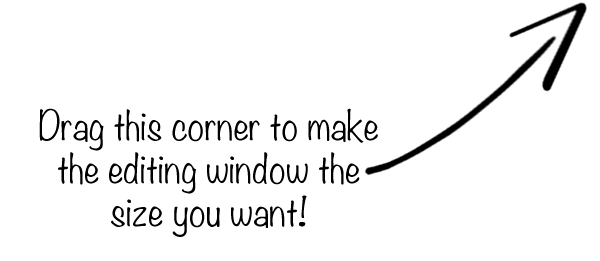
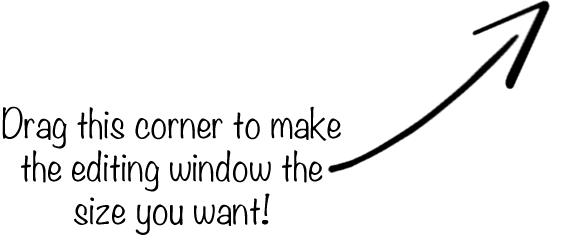
Image is now responsive

Changed region(s): [[0.0, 0.2681, 0.9361, 1.0], [0.8153, 0.0, 0.9964, 0.2979]]

diff --git a/index.php b/index.php
@@ -26,7 +26,7 @@ tinymce.init({
 <form method="post">
     <textarea id="elm1"></textarea>
 </form>
-<div style="text-align:right"><img src="arrow.png"></div>
+<div style="text-align:right"><img style="width:100%;max-width:563px;height:auto" src="arrow.png"></div>
 
 
 </body>
